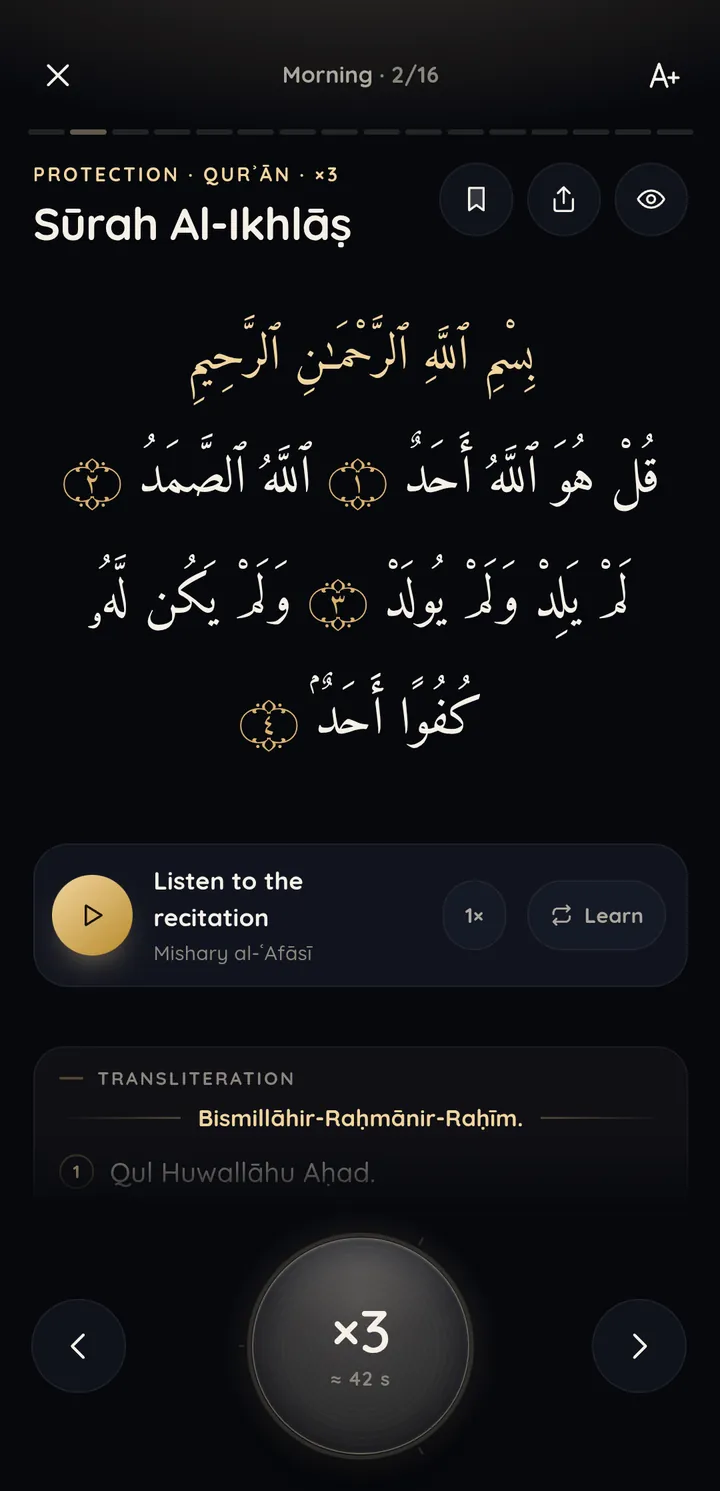
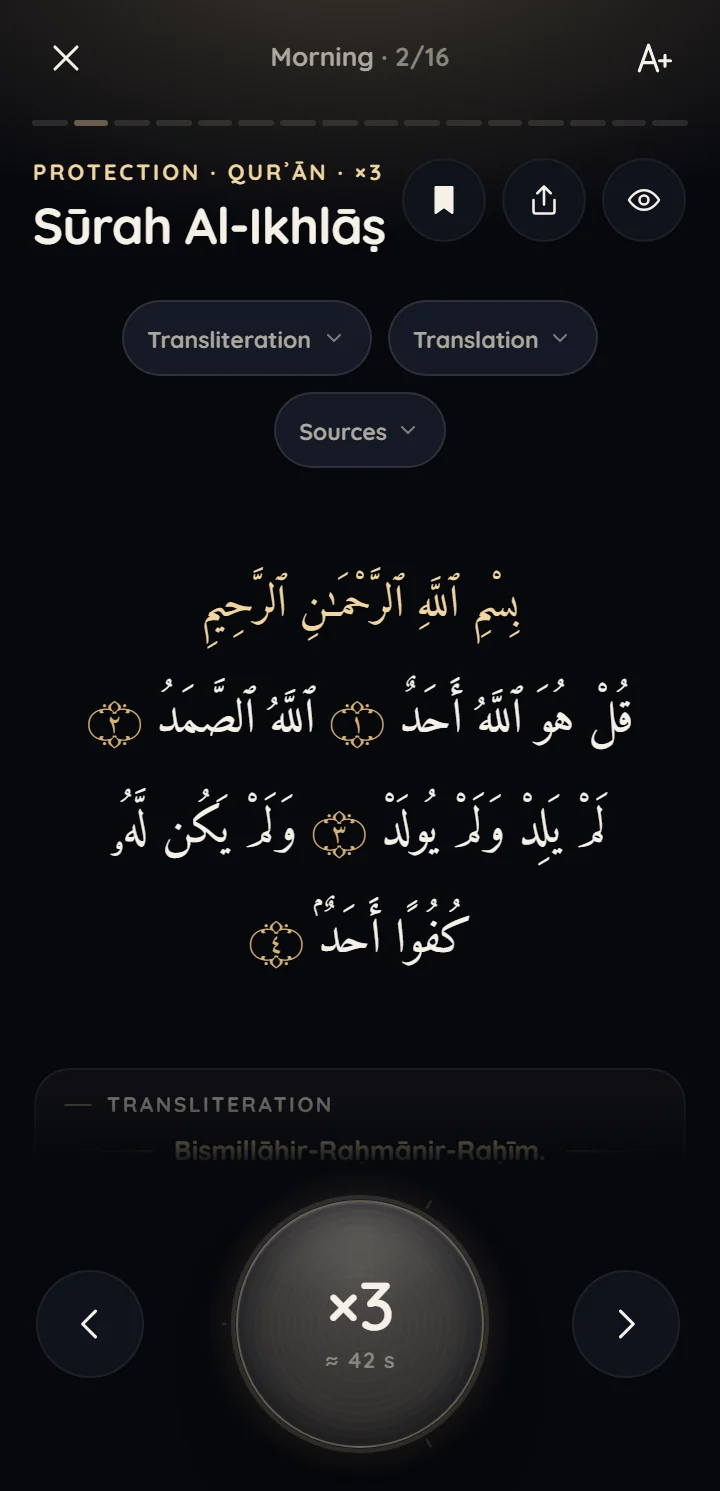
promo: frame each film for its shape and capture every screen from 13.10
- engine.js: per-shape focus (focus.feed, focus.land), so 4:5 and 16:9 frame each scene for themselves
- 16:9: phones whole beside the words; the desktop app and Ramadan dashboard fill about two-thirds of the frame
- 4:5: the desktop scenes lean in; the du'a notification no longer crosses the headline
- guide-shots.js: promo-extra, promo-friday and promo-ramadan groups script the reader, al-Kahf translation
  and the whole Ramadan page (seeded at day 11), which were hand-captured before
- the general film scrolls the new Ramadan page down to taraweeh and the khatm
- docs/promo-next-render-brief.md: placements, what changed and what is still open

diff --git a/tools/guide-shots.js b/tools/guide-shots.js
@@ -1,5 +1,6 @@
 /* Every screenshot in the guide and the README, from the app itself with a month of sample use.
-     node tools/guide-shots.js [group ...]       (groups: dark light ar friday friday-light ramadan desk desk-light desk-ar)
+     node tools/guide-shots.js [group ...]       (groups: dark light ar friday friday-light ramadan desk desk-light desk-ar,
+                                                   promo-extra promo-friday promo-ramadan)
    Each group is one run of headless Edge (tools/cdp.js) with its own theme, language and, for Friday and Ramaḍān,
    a clock set to such a day, so those modes appear exactly as they do on that day. Phone screens are 360 x 746 at
    2x (saved 720 x 1491), desktop screens 1600 x 1000. Output: docs/guide/shots/<group>/<name>.webp. */
@@ -68,6 +69,11 @@ const GROUPS = {
   'friday-ar': { theme: 'dark', ar: true, at: '2026-11-20T09:30:00', dir: 'friday', suffix: '-ar', shots: FRIDAY },
   'ramadan-light': { theme: 'light', at: '2027-02-18T15:20:00', dir: 'ramadan', suffix: '-light', shots: RAMADAN },
   'ramadan-ar': { theme: 'dark', ar: true, at: '2027-02-18T15:20:00', dir: 'ramadan', suffix: '-ar', shots: RAMADAN },
+  /* the promo films' own screens (tools/promo): the reader with its recitation, al-Kahf with its translation,
+     and the Ramaḍān page from top to foot, which the general film scrolls through */
+  'promo-extra': { theme: 'dark', dir: 'extra', shots: { 'reader-audio': '#/r/morning/1' } },
+  'promo-friday': { theme: 'dark', at: '2026-11-20T09:30:00', dir: 'friday', shots: { 'kahf-tr': '#/kahf|[data-a="kf-mode"][data-m="tr"]' } },
+  'promo-ramadan': { theme: 'dark', at: '2027-02-18T15:20:00', dir: 'ramadan', month: true, full: ['month-full'], shots: { 'month-full': '#/ramadan' } },
   ramadan: {
     theme: 'dark',
     at: '2027-02-18T15:20:00',
@@ -143,7 +149,25 @@ function sample(now, g) {
   }
   const t = iso(new Date(now));
   prayed[t] = { fajr: 1 };
+  /* the promo's Ramaḍān (day 11 of 1448): nine fasts kept and one missed, ten nights of tarāwīḥ, eleven ajzāʾ read */
+  const extra = {};
+  if (g.month) {
+    const back = (n) => iso(new Date(now - n * 864e5));
+    const fasts = {},
+      skip = {},
+      taraweeh = {},
+      juz = {};
+    for (let n = 1; n <= 10; n++) {
+      if (n === 4) skip[back(11 - n)] = 1;
+      else fasts[back(11 - n)] = 'ramadan';
+    }
+    for (let n = 1; n <= 11; n++) if (n !== 6) taraweeh[back(12 - n)] = n % 3 ? 8 : 20;
+    for (let j = 1; j <= 11; j++) juz[j] = 1;
+    extra.fasts = fasts;
+    extra.ramadan = { skip, taraweeh, khatm: { juz, done: 0 } };
+  }
   return {
+    ...extra,
     v: 10,
     profile: { name: 'Bashir', hue: 'gold', since: iso(new Date(now - 40 * 864e5)), onboarded: true, gender: 'm' },
     loc: { lat: 6.5244, lng: 3.3792, name: 'Lagos', city: 'Lagos', country: 'Nigeria', src: 'city', tz: 1 },
@@ -223,7 +247,15 @@ async function run(page) {
     }
     await page.eval('window.scrollTo(0,0);1');
     await page.wait(250);
+    /* a whole page: the window grows to the page's full height for one picture */
+    const full = (g.full || []).indexOf(shot) >= 0;
+    if (full) {
+      const h = await page.eval('Math.ceil(document.documentElement.scrollHeight)');
+      await page.size(360, h, 2);
+      await page.wait(1200);
+    }
     const r = await page.send('Page.captureScreenshot', { format: 'png' });
+    if (full) await page.size(360, 746, 2);
     const png = path.join(dir, shot + (g.suffix || '') + '.png');
     fs.writeFileSync(png, Buffer.from(r.result.data, 'base64'));
     if (route === 'pal') await page.eval('Desk.palette();1');
@@ -266,7 +298,7 @@ import glob, os
 from PIL import Image
 for f in glob.glob(${JSON.stringify(path.join(ROOT, 'docs', 'guide', 'shots').replace(/\\/g, '/'))} + '/*/*.png'):
     im = Image.open(f).convert('RGB')
-    if im.width == 720: im = im.crop((0, 0, 720, 1491))
+    if im.width == 720 and not f.endswith('-full.png'): im = im.crop((0, 0, 720, 1491))
     im.save(f[:-4] + '.webp', quality=86, method=6)
     os.remove(f)
 `

diff --git a/tools/promo/general.js b/tools/promo/general.js
@@ -95,10 +95,15 @@
       ['G', 19.6, 'push'], ['H', 22.8, 'flip'], ['I', 25.8, 'split'], ['J', 28.6, 'slide'], ['K', 31.6, 'bloom'], ['L', 34.6, 'iris2'],
       ['M', 37.8, 'push'], ['N', 41.0, 'window'], ['O', 44.0, 'zoom'], ['P', 47.0, 'flash']],
     /* each beat's subject in the portrait frame, and where it goes in the other shapes */
-    focus: { _: [40, 500, 1040, 1460], A: [140, 380, 940, 1080], C: [-160, 520, 1240, 1460], I: [-120, 520, 1200, 1460], J: [40, 520, 1180, 1460], N: [140, 520, 940, 1560], O: [-110, 620, 1190, 1400], P: [120, 300, 960, 1420] },
+    focus: { _: [40, 500, 1040, 1460], A: [140, 380, 940, 1080], C: [-160, 520, 1240, 1460], I: [-120, 520, 1200, 1460], J: [40, 520, 1180, 1460], N: [140, 520, 940, 1560], O: [-110, 620, 1190, 1400], P: [120, 300, 960, 1420],
+      /* the feed: the desktop leans in, its sidebar and sky card filling the width, the far edge running off */
+      feed: { O: [-40, 650, 900, 1390] },
+      /* landscape: every phone whole, top to foot, beside the words; the computer as large as the frame allows */
+      land: { B: [190, 520, 890, 1690], L: [190, 520, 890, 1690], M: [190, 520, 890, 1690], G: [80, 440, 1000, 1800], H: [140, 490, 940, 1800],
+        J: [170, 520, 1110, 1680], C: [-160, 520, 1240, 1690], I: [-130, 520, 1210, 1640], O: [-10, 680, 1090, 1370] } },
     area: {
-      feed: { _: [40, 320, 1040, 1350], A: [140, 70, 940, 1080], P: [80, 30, 1000, 1330] },
-      land: { _: [780, 40, 1860, 1040], A: [820, 60, 1820, 1020], P: [400, 30, 1520, 1050], O: [740, 140, 1880, 940], C: [740, 60, 1900, 1040], I: [740, 60, 1900, 1040] }
+      feed: { _: [40, 320, 1040, 1350], A: [140, 70, 940, 1080], P: [80, 30, 1000, 1330], O: [0, 360, 1080, 1300] },
+      land: { _: [780, 40, 1860, 1040], A: [820, 60, 1820, 1020], P: [400, 30, 1520, 1050], O: [640, 100, 1860, 1000], C: [740, 40, 1900, 1040], I: [740, 40, 1900, 1040] }
     },
     tint: function (t, AT) { return t >= AT.K && t < AT.L ? '246,190,215' : t >= AT.E && t < AT.F ? '170,235,210' : '246,214,150'; },
     flashes: [['C', .75], ['O', .45], ['P', .8]],
@@ -206,7 +211,7 @@
         $('Gph').style.transform = 'translateY(' + ((1 - a) * 260 + 120) + 'px) rotateX(' + (20 - 12 * a) + 'deg) rotateY(' + (14 - 22 * io(seg(lt, 0, 3.6))) + 'deg) scale(.82)';
         $('Ggl').style.backgroundPosition = (100 - seg(lt, .3, 2.3) * 100) + '% 0';
         var n = back(seg(lt, 1.3, 2.0));
-        $('Gn').style.transform = 'translateY(' + L(-520, 0, n) + 'px) translateZ(160px) scale(' + L(.92, 1, o3(seg(lt, 1.3, 2.0))) + ')';
+        $('Gn').style.transform = 'translateY(' + L(SHAPE === 'port' ? -520 : -140, 0, n) + 'px) translateZ(160px) scale(' + L(.92, 1, o3(seg(lt, 1.3, 2.0))) + ')';
         $('Gn').style.opacity = o3(seg(lt, 1.3, 1.6));
         var dua = 'Guidance and good health for my parents', k = Math.floor(seg(lt, 2.1, 3.1) * dua.length);
         $('Gtype').textContent = dua.slice(0, k) + (lt > 2.0 && lt < 3.3 && Math.floor(lt * 3) % 2 ? '|' : '');
@@ -255,7 +260,8 @@
       },
       M: function (lt) {
         phoneIn('Mph', lt, 14, -8);
-        $('Mimg').style.transform = 'translateY(' + -io(seg(lt, .7, 3.0)) * 1560 + 'px)';
+        /* down through the fasts and make-up fasts to tarāwīḥ and the khatm */
+        $('Mimg').style.transform = 'translateY(' + -io(seg(lt, .6, 3.0)) * 2500 + 'px)';
         $('Mgl').style.backgroundPosition = (100 - seg(lt, .3, 2.3) * 100) + '% 0';
       },
       N: function (lt) {

diff --git a/tools/promo/general.html b/tools/promo/general.html
@@ -14,8 +14,8 @@
      Every beat's visuals are drawn once in the portrait frame and placed per shape by fit(): the words go to a band at
      the top (portrait, feed) or a column at the left (landscape). In portrait nothing that matters sits in the bottom
      quarter or the right edge, where status and reels viewers lay their buttons. The screens are the guide's own
-     (docs/guide/shots, made by tools/guide-shots.js); assets/ramadan-full.webp is the full Ramaḍān page from the same
-     sample. The notification and break wording are the app's (Scheduler.java, v-today.js). -->
+     (docs/guide/shots, made by tools/guide-shots.js); ramadan/month-full.webp is the whole Ramaḍān page on day 11, made by
+     its promo-ramadan group. The notification and break wording are the app's (Scheduler.java, v-today.js). -->
 <style>
 @font-face { font-family: 'Quicksand'; font-weight: 400 700; src: url(../../docs/guide/fonts/Quicksand-400-700-latin.woff2) format('woff2'); unicode-range: U+0000-00FF, U+2000-206F; }
 @font-face { font-family: 'Quicksand'; font-weight: 400 700; src: url(../../docs/guide/fonts/Quicksand-400-700-latin-ext.woff2) format('woff2'); unicode-range: U+0100-02BA, U+02BD-02C5, U+02C7-02FF, U+1E00-1EFF; }
@@ -72,6 +72,9 @@ html.land .small { font-size: 31px; max-width: 600px; }
 #fade { position: absolute; inset: 0; z-index: 60; background: #000; pointer-events: none; }
 /* in landscape the words sit over a soft shade, so they read over the busiest beat */
 html.land .b::after { content: ''; position: absolute; left: 0; top: 0; bottom: 0; width: 980px; z-index: 5; pointer-events: none; background: linear-gradient(90deg, rgba(4,5,20,.78), rgba(4,5,20,.45) 60%, rgba(4,5,20,0)); }
+/* the computer gets the width: a narrower column of words, and the shade stops short of its sidebar */
+html.land #O .band { width: 500px; }
+html.land #O::after { width: 700px; }
 /* the home-screen widgets, drawn as the app draws them (android/res/drawable/widget_bg_day, widget_tsb_bg, widget_ring) */
 .wg { font-family: 'Quicksand', sans-serif; color: #F5F0E7; overflow: hidden; box-sizing: border-box; }
 .wp { display: flex; flex-direction: column; border-radius: 44px; padding: 34px 38px 32px; background: linear-gradient(180deg, #0E2544, #1C4670 55%, #2F6A94); }
@@ -333,7 +336,7 @@ html.land .b::after { content: ''; position: absolute; left: 0; top: 0; bottom: 
     <div class="bg" style="background:radial-gradient(75% 50% at 50% 56%, #2a2160, #05061a 74%)"></div>
     <div class="stars" id="Mst"></div>
     <div class="vis" id="Mv">
-      <div class="phone" id="Mph" style="left:220px;top:560px"><div class="scr"><img id="Mimg" src="assets/ramadan-full.webp" style="height:auto;bottom:auto"><i class="gl" id="Mgl"></i></div></div>
+      <div class="phone" id="Mph" style="left:220px;top:560px"><div class="scr"><img id="Mimg" src="../../docs/guide/shots/ramadan/month-full.webp" style="height:auto;bottom:auto"><i class="gl" id="Mgl"></i></div></div>
     </div>
     <div class="band">
       <div class="m"><span class="kick">Ramaḍān</span></div>

diff --git a/tools/promo/ramadan.js b/tools/promo/ramadan.js
@@ -127,10 +127,14 @@
     beats: [['A', 0, 'fade'], ['B', 4.2, 'iris'], ['C', 8.2, 'diag'], ['D', 12.45, 'zoom'], ['E', 17.0, 'push'], ['F', 21.2, 'window'],
       ['Q', 25.0, 'shutter'], ['G', 28.6, 'flip'], ['H', 32.2, 'slide'], ['I', 36.2, 'iris2'], ['J', 38.6, 'zoom'], ['K', 41.3, 'flash']],
     /* each beat's subject in the portrait frame, and where it goes in the feed and in landscape */
-    focus: { _: [40, 500, 1040, 1460], A: [60, 120, 1020, 960], J: [24, 688, 1056, 1385], K: [60, 160, 1020, 1440] },
+    focus: { _: [40, 500, 1040, 1460], A: [60, 120, 1020, 960], J: [24, 688, 1056, 1385], K: [60, 160, 1020, 1440],
+      /* the feed: the dashboard leans in, its sidebar and ifṭār card filling the width, the far edge running off */
+      feed: { J: [30, 700, 930, 1360] },
+      /* landscape: each phone whole, top to foot, beside the words; the dashboard as large as the frame allows */
+      land: { B: [120, 520, 960, 1700], E: [80, 440, 1000, 1800], J: [30, 700, 1050, 1360] } },
     area: {
-      feed: { _: [40, 320, 1040, 1350], A: [60, 30, 1020, 960], K: [60, 20, 1020, 1330], J: [46, 370, 1034, 1190] },
-      land: { _: [780, 40, 1860, 1040], A: [860, 40, 1860, 1040], K: [420, 20, 1500, 1060], J: [790, 120, 1860, 1010] }
+      feed: { _: [40, 320, 1040, 1350], A: [60, 30, 1020, 960], K: [60, 20, 1020, 1330], J: [0, 360, 1080, 1300] },
+      land: { _: [780, 40, 1860, 1040], A: [860, 40, 1860, 1040], K: [420, 20, 1500, 1060], J: [620, 110, 1870, 990] }
     },
     tint: function (t, AT) {
       return t >= AT.G && t < AT.H ? '246,190,215' : '246,214,150';
@@ -228,7 +232,7 @@
       $('Eph').style.transform = 'translateY(' + ((1 - a) * 260 + 120) + 'px) rotateX(' + (20 - 12 * a) + 'deg) rotateY(' + (14 - 22 * io(seg(lt, 0, 4.8))) + 'deg) scale(.82)';
       $('Egl').style.backgroundPosition = (100 - seg(lt, .3, 2.3) * 100) + '% 0';
       var n = back(seg(lt, 1.4, 2.1)), out = 0;
-      $('En').style.transform = 'translateY(' + L(-520, 0, n) + 'px) translateZ(' + 160 + 'px) scale(' + L(.92, 1, o3(seg(lt, 1.4, 2.1))) + ')';
+      $('En').style.transform = 'translateY(' + L(F.SHAPE === 'port' ? -520 : -140, 0, n) + 'px) translateZ(' + 160 + 'px) scale(' + L(.92, 1, o3(seg(lt, 1.4, 2.1))) + ')';
       $('En').style.opacity = o3(seg(lt, 1.4, 1.7)) * (1 - out);
       var dua = 'Guidance and good health for my parents', k = Math.floor(seg(lt, 2.2, 3.6) * dua.length);
       $('Etype').textContent = dua.slice(0, k) + (lt > 2.1 && lt < 4.2 && Math.floor(lt * 3) % 2 ? '|' : '');

diff --git a/tools/promo/engine.js b/tools/promo/engine.js
@@ -1,6 +1,7 @@
 /* The films' shared engine (tools/promo/general.html, ramadan.html): the shape, the beats and the ways they open, the
    light that rides each cut, drifting motes, grain, the words rising from behind a mask, and the sound cues.
-   A film calls Film({ dur, beats, draw, focus, area, cues, tint, flashes }) from its own script. Everything is a pure
+   A film calls Film({ dur, beats, draw, focus, area, cues, tint, flashes }); focus.feed and focus.land, when
+   given, frame a beat's subject differently for that shape from its own script. Everything is a pure
    function of t: window.render(t) draws one frame; tools/promo/render.js steps through it into ffmpeg.
    Shapes (from the page's query): portrait 1080 x 1920 by default, ?feed 1080 x 1350, ?land 1920 x 1080. Each beat's
    visuals are drawn once in the portrait frame (.vis, 1080 x 1920); fit() moves the box `focus` of that frame into the
@@ -31,7 +32,7 @@
     var DEF_AREA = { port: null, feed: [40, 320, 1040, 1350], land: [780, 40, 1860, 1040] };
     function fit(id) {
       if (SHAPE === 'port') return null;
-      var f = FOCUS[id] || DEF_FOCUS, a = (AREA[SHAPE] && AREA[SHAPE][id]) || (AREA[SHAPE] && AREA[SHAPE]._) || DEF_AREA[SHAPE];
+      var f = (FOCUS[SHAPE] && FOCUS[SHAPE][id]) || FOCUS[id] || DEF_FOCUS, a = (AREA[SHAPE] && AREA[SHAPE][id]) || (AREA[SHAPE] && AREA[SHAPE]._) || DEF_AREA[SHAPE];
       var s = Math.min((a[2] - a[0]) / (f[2] - f[0]), (a[3] - a[1]) / (f[3] - f[1]));
       return { s: s, tx: (a[0] + a[2]) / 2 - s * (f[0] + f[2]) / 2, ty: (a[1] + a[3]) / 2 - s * (f[1] + f[3]) / 2, cx: (f[0] + f[2]) / 2, cy: (f[1] + f[3]) / 2 };
     }

diff --git a/tools/promo/ramadan.html b/tools/promo/ramadan.html
@@ -62,6 +62,9 @@ html.land .small { font-size: 31px; max-width: 600px; }
 #fade { position: absolute; inset: 0; z-index: 60; background: #000; pointer-events: none; }
 /* in landscape the words sit over a soft shade, so they read over the busiest beat */
 html.land .b::after { content: ''; position: absolute; left: 0; top: 0; bottom: 0; width: 980px; z-index: 5; pointer-events: none; background: linear-gradient(90deg, rgba(4,5,20,.78), rgba(4,5,20,.45) 60%, rgba(4,5,20,0)); }
+/* the dashboard gets the width: a narrower column of words, and the shade stops short of its sidebar */
+html.land #J .band { width: 500px; }
+html.land #J::after { width: 700px; }
 .notif { position: absolute; left: 90px; width: 900px; padding: 30px 34px 32px; border-radius: 44px; background: rgba(30,32,42,.94); box-shadow: 0 40px 90px -20px rgba(0,0,0,.9), 0 0 0 1.5px rgba(246,223,170,.25); font-family: Quicksand; }
 .notif .hd { display: flex; align-items: center; gap: 14px; font: 600 24px Quicksand; color: rgba(245,240,231,.62); }
 .notif .hd svg { width: 40px; height: 40px; border-radius: 10px; }
@@ -190,7 +193,7 @@ html.land .b::after { content: ''; position: absolute; left: 0; top: 0; bottom: 
     </div>
     <div class="band">
       <div class="m"><span class="kick">The last ten nights</span></div>
-      <div class="m"><span class="line">Seek <span class="g">Laylat al-Qadr.</span></span></div>
+      <div class="m"><span class="line">Seek <span class="g" style="white-space:nowrap">Laylat al-Qadr.</span></span></div>
       <div class="m"><span class="small">Every odd night marked, with its duʿāʾ ready.</span></div>
     </div>
   </div>

diff --git a/docs/promo-next-render-brief.md b/docs/promo-next-render-brief.md
@@ -1,0 +1,28 @@
+# Promo brief for the next design capture
+
+Production starts after the updated app and guide are approved and fresh screenshots are available. Keep the existing footage and artwork as references until the new exports pass review.
+
+| Placement | Composition | Master canvas |
+| --- | --- | --- |
+| Stories, Reels and status | Use the phone view with captions above system overlays. Give the main interaction enough screen space to read at phone size. | 1080 × 1920, 9:16 |
+| LinkedIn feed | Compose specifically for the feed. Crop the app capture by selecting the feature panel, then build the rest of the scene around it. Keep the key controls and labels visible in the mobile feed. | 1080 × 1350, 4:5 |
+| Desktop and landscape | Use the actual desktop build. Show the sidebar and enough of the wider layout to explain desktop use, including the Ramadan dashboard. | 1920 × 1080, 16:9 |
+
+Add 1080 × 1080 only if a named placement needs it. Give each placement its own framing, text, pacing and image scale. Recompose scenes with multiple panels on the narrower canvases.
+
+Keep two deliverables per approved aspect ratio and film: a full-quality original and a compressed share copy. Both carry the approved audible mix. Inspect the encoded audio stream and listen to the beginning, middle and end. Check runtime, dimensions, captions, content edges and platform safe areas at actual viewing size. Freeze a manifest of final filenames and hashes before clearing duplicates. At that stage, delete superseded rendered video files only and keep source screenshots, artwork and other reference assets.
+
+## Per-shape framing, 13.10 re-render (2026-11-28)
+
+The 13.10 exports were first adapted from the portrait film. The 4:5 and 16:9 versions now have their own per-scene framing (`focus.feed` and `focus.land` in `general.js` and `ramadan.js`, read by `engine.js`):
+
+- **16:9:** every phone shows whole, top to bottom, beside the column of words. Before, phones were clipped at the top and bottom. The desktop scenes use a narrower word column and a shorter shade, so the Windows app and the Ramaḍān dashboard fill about two-thirds of the frame and the sidebar stays readable.
+- **4:5:** the desktop scenes lean in so the sidebar and main card fill the width, with the far edge running off the frame. The du'ā' notification drops a short distance instead of sweeping across the headline.
+- **9:16:** framing unchanged.
+- **Screens:** every capture in both films now comes from the 13.10 app. The reader, Al-Kahf translation and the full Ramaḍān page, which were hand-captured before, are now scripted in `tools/guide-shots.js` (`promo-extra`, `promo-friday`, `promo-ramadan`). The Ramaḍān page is seeded at Day 11, with 9 fasts kept, 1 missed, 10 Tarāwīḥ nights and 11 juz' read. The general film scrolls it down to Tarāwīḥ and the khatm.
+
+Still open for the next design capture:
+
+- In 4:5, the phones still run off the bottom edge. The top of each screen, which carries the feature, stays in view.
+- Neither film shows the wuḍū' and ghusl lessons or the Ramaḍān share cards.
+- Each film's story, words and pacing are shared across all three shapes. Only the framing differs.

diff --git a/README.md b/README.md
@@ -230,8 +230,13 @@ python -I tools/readme_images.py        # docs/screens/*.webp, composed from tho
 ### The promotional films
 
 ```bash
-bash tools/promo/film.sh                # the 45-second film in 4:5, 9:16 and 16:9: tools/promo/ad.html drawn frame by frame, its sound cued by the picture
+node tools/guide-shots.js promo-extra promo-friday promo-ramadan   # the films' own screens, from the app (with a seeded Ramaḍān day 11)
+bash tools/promo/general.sh             # the 50-second film, any time of year: 9:16, 4:5 and 16:9, each framed for its shape
+bash tools/promo/ramadan.sh             # the 45-second Ramaḍān film, in the same three shapes
+bash tools/promo/film.sh                # the earlier 45-second film (tools/promo/ad.html)
 ```
+
+Each script writes a master, a lighter `-share` copy and a `-sfx` copy (sound design only) per shape to `dist/`. The 4:5 and 16:9 cuts reframe every scene for their shape (`focus.feed` and `focus.land`), so phones stay whole in 16:9 and the desktop app fills the frame.
 
 ### Download counts
 
